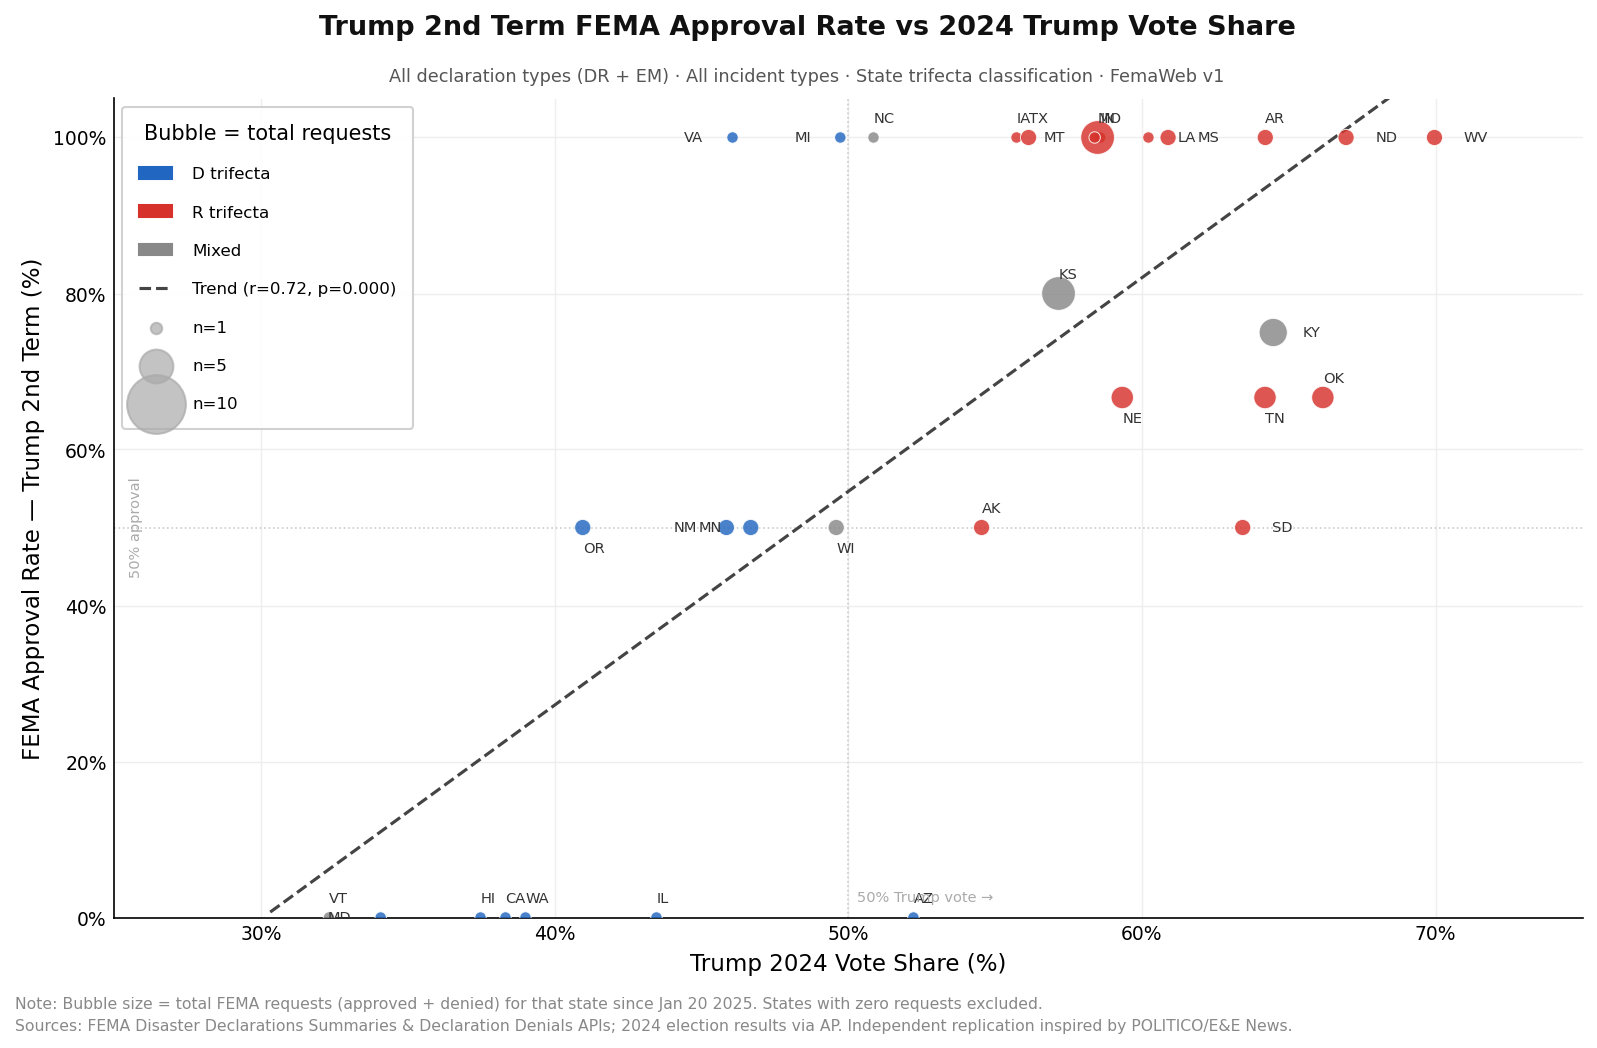
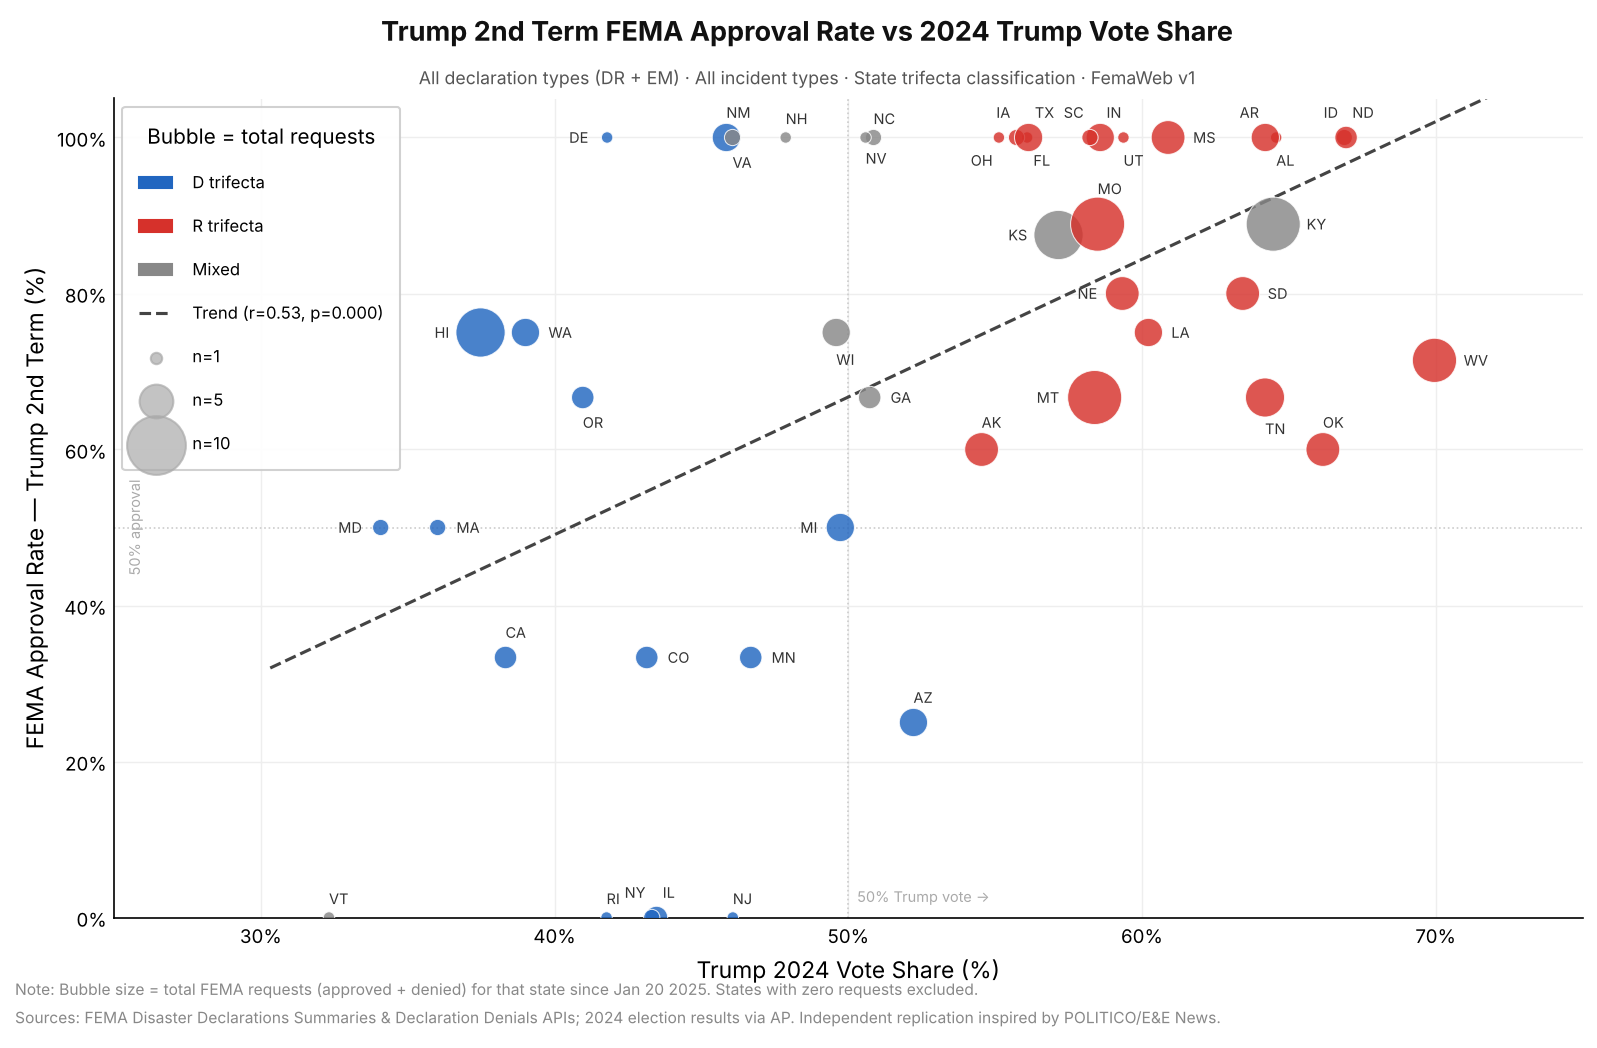
Fix Virginia 2025 alignment; add --include-emergency to scatter; regenerate charts
Spanberger took office Jan 17 2026, not 2025, so VA is Mixed (Youngkin-R)
through 2025 and a Dem trifecta from 2026. The scatter script was DR-only
but labeled DR+EM; it now takes --include-emergency and labels the scope
it actually used. Label offsets retuned for the current data.

Claude-Session: https://claude.ai/code/session_01SgqoD4A9XuiYbXthTDeanp

diff --git a/trump2_scatter.py b/trump2_scatter.py
@@ -2,7 +2,8 @@
 Trump 2nd Term FEMA Approval Rate vs 2024 Trump Vote Share — Scatterplot
 ========================================================================
 Each point is a state. X axis = Trump 2024 vote share. Y axis = FEMA approval
-rate during Trump's 2nd term. All declaration types (DR+EM), all incident types.
+rate during Trump's 2nd term. Major Disasters (DR) by default; --include-emergency
+adds Emergency (EM) declarations on both sides. All incident types.
 
 Output: trump2_scatter.png
 """
@@ -58,10 +59,10 @@ STATE_NAMES = {
 TRUMP2_START = "2025-01-20"
 
 
-def fetch_data(fema_web=False):
+def fetch_data(fema_web=False, include_emergency=False):
     if fema_web:
-        print("Fetching DR approvals from FemaWeb endpoint...")
-        approved = fetch_all_fema_web(include_emergency=False)
+        print("Fetching approvals from FemaWeb endpoint...")
+        approved = fetch_all_fema_web(include_emergency=include_emergency)
         print(f"  {len(approved)} rows")
     else:
         print("Fetching DR approvals...")
@@ -70,13 +71,21 @@ def fetch_data(fema_web=False):
             "DisasterDeclarationsSummaries",
         )
         print(f"  {len(approved)} rows")
+        if include_emergency:
+            print("Fetching EM approvals...")
+            em = fetch_all_pages(
+                lambda skip: fetch_declarations_page(skip, declaration_type="EM"),
+                "DisasterDeclarationsSummaries",
+            )
+            print(f"  {len(em)} rows")
+            approved = approved + em
     print("Fetching denials...")
     denied = fetch_all_pages(fetch_denials_page, "DeclarationDenials")
     print(f"  {len(denied)} rows")
     return approved, denied
 
 
-def compute_state_rates(approved_records, denied_records):
+def compute_state_rates(approved_records, denied_records, include_emergency=False):
     """
     Compute per-state approval rates for Trump 2nd term only.
     Returns dict: state -> {"approved": n, "denied": n}
@@ -102,11 +111,13 @@ def compute_state_rates(approved_records, denied_records):
         state = rec["state"]
         state_counts[state]["approved"] += 1
 
-    # Denials: Turndown + Major Disaster only + Trump 2 window
+    # Denials: Turndown + matching declaration type(s) + Trump 2 window
+    denial_types = ({"Major Disaster", "Emergency"} if include_emergency
+                    else {"Major Disaster"})
     for rec in denied_records:
         if rec.get("currentRequestStatus") != "Turndown":
             continue
-        if rec.get("declarationRequestType") != "Major Disaster":
+        if rec.get("declarationRequestType") not in denial_types:
             continue
         date = rec.get("requestStatusDate") or rec.get("declarationRequestDate", "")
         if not date or date[:10] < TRUMP2_START:
@@ -117,7 +128,7 @@ def compute_state_rates(approved_records, denied_records):
     return state_counts
 
 
-def plot(state_counts, fema_web=False):
+def plot(state_counts, fema_web=False, include_emergency=False):
     try:
         import matplotlib
         matplotlib.use("Agg")
@@ -173,22 +184,21 @@ def plot(state_counts, fema_web=False):
     # Per-state overrides (dx, dy in points) for crowded areas.
     LABEL_OFFSET_PTS = {
         # y=0% cluster (denied all): push above (below clips outside ylim=0)
-        "AZ": (0, 9), "CA": (0, 9), "HI": (0, 9),
-        "IL": (0, 9), "VT": (0, 9),
-        # y=100% cluster (approved all): push above
-        "AR": (0,  9), "GA": ( 14,  0), "IA": (  0,  9),
-        "IN": (0,  9), "LA": ( 14,  0), "MI": (-14,  0),
-        "MO": (0,  9), "MS": ( 14,  0), "MT": (-14,  0),
-        "NC": (0,  9), "ND": ( 14,  0), "SC": (  0,  9),
-        "TX": (0,  9), "WV": ( 14,  0),
-        # y=50% cluster: alternate above/below
-        "AK": ( 0,  9), "MD": (-14,  0), "MN": (-14,  0),
-        "OR": ( 0, -10), "SD": ( 14,  0), "WA": ( 0,  9),
-        "WI": ( 0, -10),
-        # other
-        "KS": ( 0,  9), "KY": ( 14,  0), "NE": ( 0, -10),
-        "NM": (-14,  0), "OK": ( 0,  9), "TN": ( 0, -10),
-        "VA": (-14,  0),
+        "VT": ( 0,  9), "RI": ( 0,  9), "NY": (-3, 12), "IL": ( 3, 12),
+        "NJ": ( 0,  9),
+        # y=100% cluster (approved all): alternate above/below, split pairs
+        "DE": (-9,  0), "NM": ( 0, 12), "VA": ( 0,-12), "NH": ( 0,  9),
+        "NV": ( 0,-10), "NC": ( 0,  9), "OH": (-3,-11), "IA": (-3, 12),
+        "TX": ( 3, 12), "FL": ( 3,-11), "SC": (-3, 12), "IN": ( 3, 12),
+        "UT": ( 0,-11), "MS": (12,  0), "AR": (-3, 12), "AL": ( 0,-11),
+        "ID": (-3, 12), "ND": ( 3, 12),
+        # mid-range
+        "MO": ( 0, 17), "KS": (-15, 0), "KY": (16,  0), "NE": (-12, 0),
+        "SD": (12,  0), "LA": (11,  0), "WV": (14,  0), "MT": (-17, 0),
+        "TN": ( 0,-15), "OK": ( 0, 13), "AK": ( 0, 13), "GA": (10,  0),
+        "WI": ( 0,-13), "HI": (-15, 0), "WA": (11,  0), "OR": ( 0,-12),
+        "MD": (-9,  0), "MA": ( 9,  0), "MI": (-11, 0), "CA": ( 0, 12),
+        "CO": (10,  0), "MN": (10,  0), "AZ": ( 0, 12),
     }
     for x, y, lbl in zip(xs, ys, labels):
         dx, dy = LABEL_OFFSET_PTS.get(lbl, (9, 0))
@@ -245,9 +255,11 @@ def plot(state_counts, fema_web=False):
         fontsize=13, fontweight="bold", ha="center", va="top", color="#111111",
     )
     approvals_src = "FemaWeb v1" if fema_web else "DisasterDeclarationsSummaries v2"
+    decl_scope = ("All declaration types (DR + EM)" if include_emergency
+                  else "Major Disasters (DR) only")
     fig.text(
         0.5, 0.93,
-        f"All declaration types (DR + EM) · All incident types · State trifecta classification · {approvals_src}",
+        f"{decl_scope} · All incident types · State trifecta classification · {approvals_src}",
         fontsize=8.5, ha="center", va="top", color="#555555",
     )
     fig.text(
@@ -275,10 +287,17 @@ if __name__ == "__main__":
         help="Use v1/FemaWebDisasterDeclarations (disaster-level) instead of "
              "v2/DisasterDeclarationsSummaries (county-level) for approvals.",
     )
+    parser.add_argument(
+        "--include-emergency",
+        action="store_true",
+        help="Include Emergency (EM) declarations on both sides. Default: DR only.",
+    )
     args = parser.parse_args()
 
-    approved, denied = fetch_data(fema_web=args.fema_web)
-    state_counts = compute_state_rates(approved, denied)
+    approved, denied = fetch_data(fema_web=args.fema_web,
+                                  include_emergency=args.include_emergency)
+    state_counts = compute_state_rates(approved, denied,
+                                       include_emergency=args.include_emergency)
 
     print("\nState-level Trump 2 results:")
     print(f"  {'State':<6} {'Trump%':>7} {'App':>5} {'Den':>5} {'Rate':>7}")
@@ -291,4 +310,5 @@ if __name__ == "__main__":
         rate = c["approved"] / total * 100
         print(f"  {state:<6} {TRUMP_2024[state]:>6.1f}% {c['approved']:>5} {c['denied']:>5} {rate:>6.1f}%")
 
-    plot(state_counts, fema_web=args.fema_web)
+    plot(state_counts, fema_web=args.fema_web,
+         include_emergency=args.include_emergency)

diff --git a/replicate_fema_analysis.py b/replicate_fema_analysis.py
@@ -340,8 +340,8 @@ STATE_PARTY_DATA = {
     **{("GA", y): ("D", "D", "D") for y in range(1981, 1999)},  # Harris/Miller(D) + Nunn/Fowler/Cleland(D)
     
     # VIRGINIA
-    **{("VA", y): ("D", "D", "D") for y in range(2025, 2027)},  # Spanberger(D)/Warner(D)/Kaine(D) — Spanberger took office Jan 17 2025, before Trump 2 inauguration
-    **{("VA", y): ("R", "D", "D") for y in range(2022, 2025)},  # Youngkin(R)/Warner(D)/Kaine(D) -> Mixed
+    **{("VA", y): ("D", "D", "D") for y in range(2026, 2027)},  # Spanberger(D)/Warner(D)/Kaine(D) — Spanberger took office Jan 17 2026
+    **{("VA", y): ("R", "D", "D") for y in range(2022, 2026)},  # Youngkin(R)/Warner(D)/Kaine(D) -> Mixed
     **{("VA", y): ("D", "D", "D") for y in range(2018, 2022)},  # Northam(D)/Warner(D)/Kaine(D)
     **{("VA", y): ("D", "D", "D") for y in range(2014, 2018)},  # McAuliffe/Northam(D)/Warner(D)/Kaine(D)
     **{("VA", y): ("R", "D", "D") for y in range(2010, 2014)},  # McDonnell(R)/Warner(D)/Webb->Kaine(D) -> Mixed
